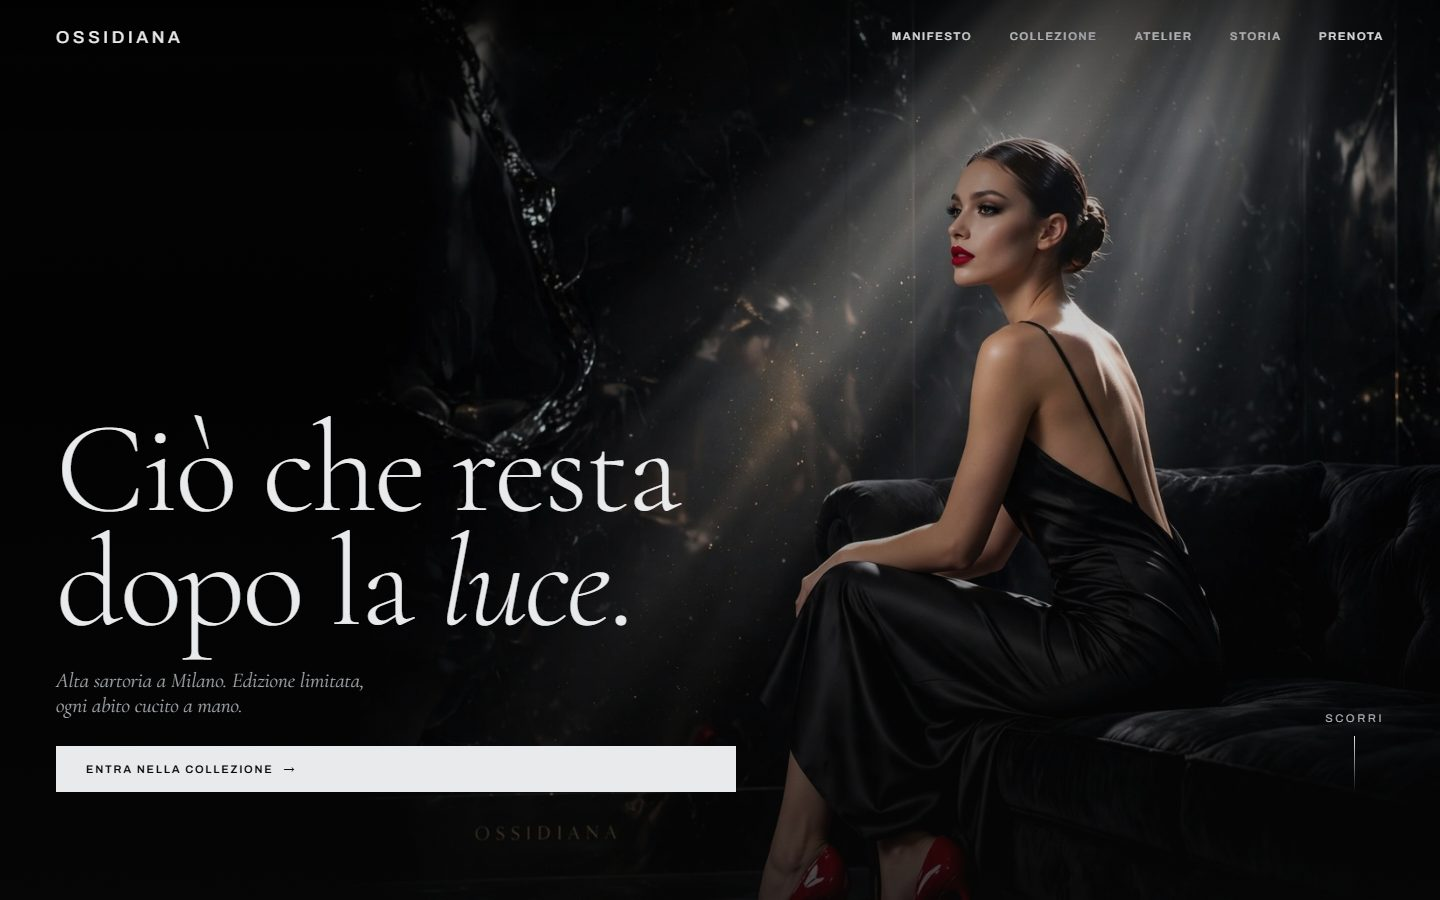
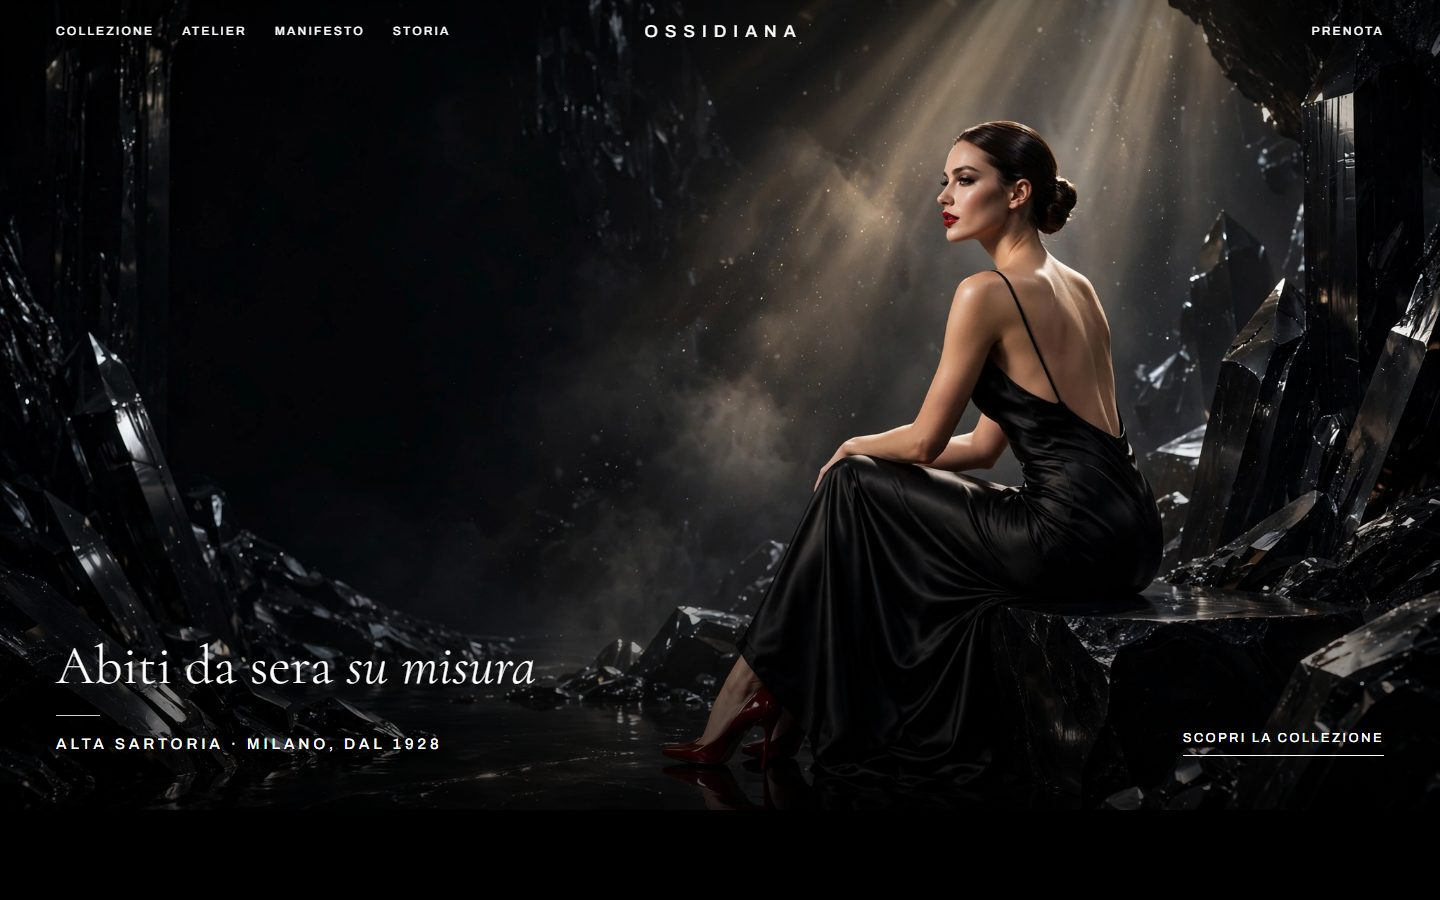
feat: Ossidiana aggiornata - nuovi screenshot e descrizione
- screenshot home nuova (desktop 1440x900, telefono 1170x2532 senza
  tagli ai lati)
- testo e tag allineati al nuovo sito: struttura unica PC/mobile,
  foto grandi, niente scrollytelling

diff --git a/index.html b/index.html
@@ -98,10 +98,10 @@
             <p class="project-sub">Atelier di alta sartoria a Milano. Brand ideato per mostrare uno stile editoriale di lusso.</p>
             <dl class="case">
               <div><dt>Obiettivo</dt><dd>Raccontare un marchio di alta moda con la stessa cura di un abito su misura: poche parole, immagini grandi, ritmo lento.</dd></div>
-              <div><dt>Cosa ho fatto</dt><dd>Racconto a capitoli con scroll cinematografico su computer e una versione mobile ripensata da zero, non solo rimpicciolita. Schede prodotto con galleria e richiesta di prova con calendario.</dd></div>
+              <div><dt>Cosa ho fatto</dt><dd>Una sola struttura per computer e telefono, come i grandi marchi del lusso: foto grandi, una per blocco e mai tagliate, movimento ridotto al minimo. Schede prodotto con galleria e richiesta di prova con calendario.</dd></div>
               <div><dt>Risultato</dt><dd>Tre pagine (home, storia, manifesto) che si provano su ogni schermo: è lo stile da scegliere per chi vende un prodotto di fascia alta.</dd></div>
             </dl>
-            <ul class="tags"><li>Scrollytelling</li><li>Mobile dedicato</li><li>Prenotazione su calendario</li></ul>
+            <ul class="tags"><li>Layout editoriale</li><li>Foto a tutta pagina</li><li>Prenotazione su calendario</li></ul>
             <a class="project-link" href="https://chillguyzofficial-spec.github.io/ossidiana/" target="_blank" rel="noopener">Visita il sito <span aria-hidden="true">↗</span></a>
           </div>
         </article>
